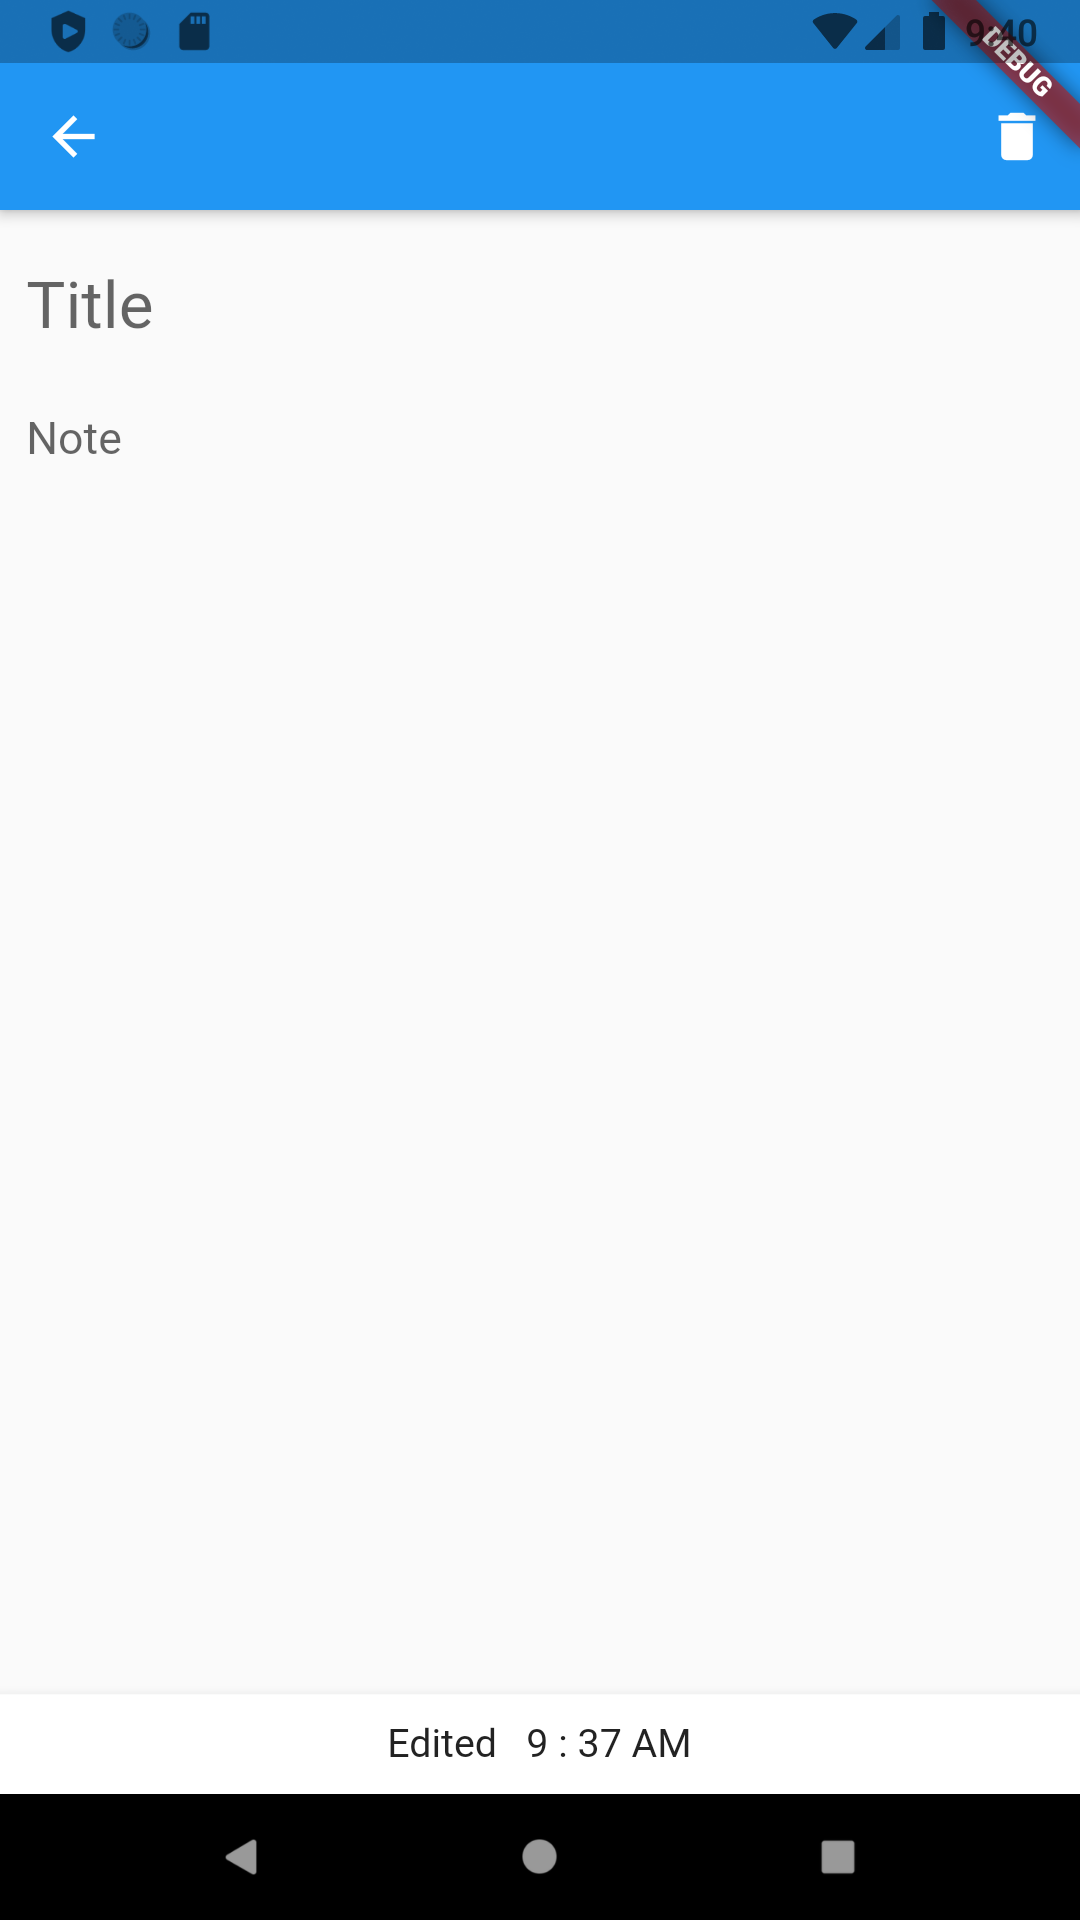
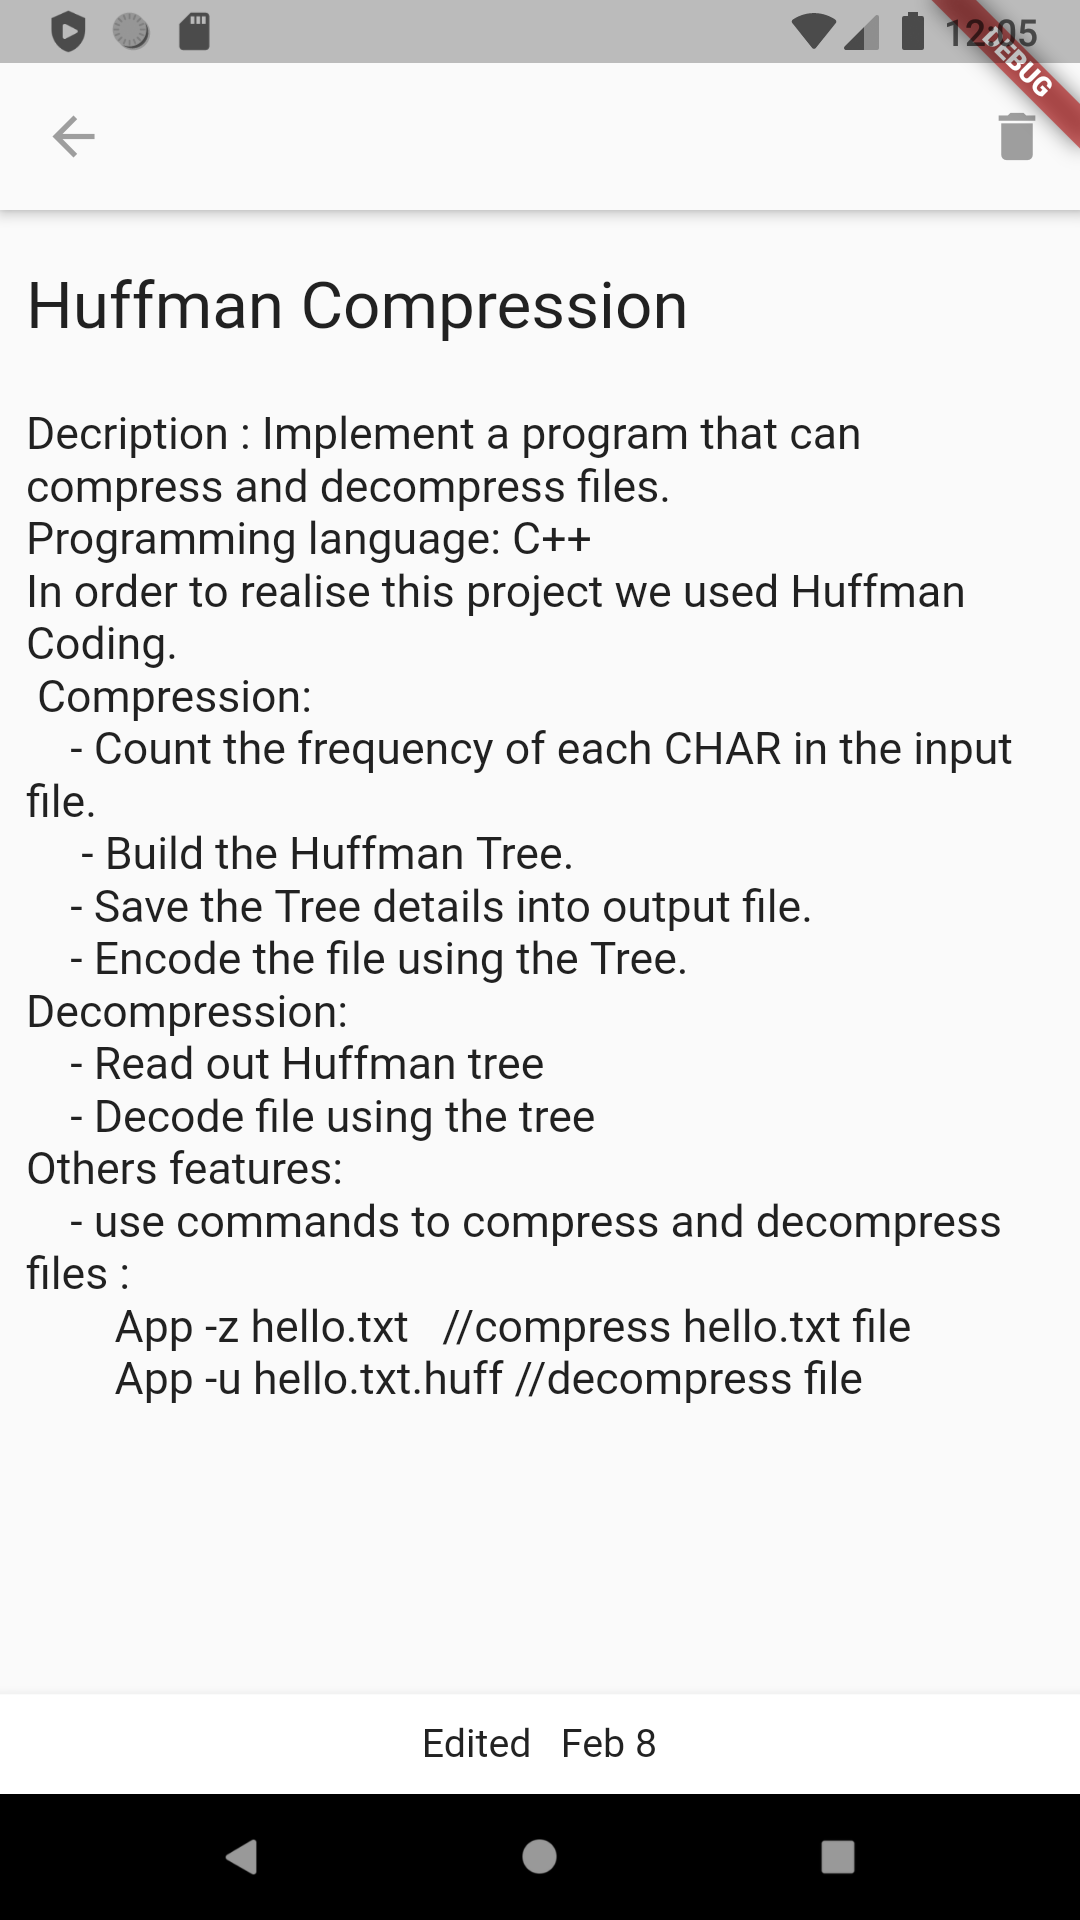
Design side bar and search page. also change edit page appbar color

diff --git a/lib/views/homepage.dart b/lib/views/homepage.dart
@@ -1,8 +1,10 @@
 import 'package:flutter/material.dart';
-import 'package:flutter/rendering.dart';
 import 'package:notepad/data/data.dart';
 import 'package:notepad/models/note.dart';
 import 'package:notepad/views/editpage.dart';
+import 'package:notepad/views/searchpage.dart';
+import 'package:notepad/widgets.dart/SideBar.dart';
+import 'package:notepad/widgets.dart/noteslist.dart';
 
 class HomePage extends StatefulWidget {
   final String title;
@@ -14,78 +16,10 @@ class HomePage extends StatefulWidget {
 }
 
 class _HomePageState extends State<HomePage> {
-  _buildListItem(Note note) {
-    return Dismissible(
-      key: Key(note.noteId),
-      direction: DismissDirection.endToStart,
-      onDismissed: (direction) {
-        //TODO: delete note from database
-      },
-      child: Container(
-        margin: EdgeInsets.all(10.0),
-        decoration: BoxDecoration(
-            border: Border.all(color: Colors.grey),
-            borderRadius: BorderRadius.circular(10.0)),
-        child: ListTile(
-          title: Padding(
-            padding: EdgeInsets.all(10.0),
-            child: Text(
-              note.title,
-              maxLines: 1,
-              style: TextStyle(
-                fontSize: 24.0,
-                fontWeight: FontWeight.bold,
-              ),
-              overflow: TextOverflow.ellipsis,
-            ),
-          ),
-          subtitle: Text(
-            note.text,
-            style: TextStyle(
-              fontSize: 16,
-            ),
-            maxLines: 11,
-            overflow: TextOverflow.ellipsis,
-          ),
-          onTap: () {
-            Navigator.push(
-              context,
-              MaterialPageRoute(
-                builder: (BuildContext context) => EditPage(
-                  note: note,
-                ),
-              ),
-            );
-          },
-          onLongPress: () {
-            //TODO: on long press show options(delete,..)
-          },
-        ),
-      ),
-    );
-  }
-
-  _buildList() {
-    return ListView.builder(
-      itemCount: notes.length,
-      itemBuilder: (context, index) {
-        return _buildListItem(notes[index]);
-      },
-    );
-  }
-
   @override
   Widget build(BuildContext context) {
     return Scaffold(
       appBar: AppBar(
-        leading: IconButton(
-          icon: Icon(
-            Icons.menu,
-          ),
-          onPressed: () {
-            //TODO: show menu
-          },
-        ),
         title: Text(
           widget.title,
         ),
@@ -93,12 +27,20 @@ class _HomePageState extends State<HomePage> {
           IconButton(
             icon: Icon(Icons.search),
             onPressed: () {
-              //TODO: show search bar
+              Navigator.push(
+                context,
+                MaterialPageRoute(
+                  builder: (BuildContext context) => SearchPage(),
+                ),
+              );
             },
           ),
         ],
       ),
-      body: _buildList(),
+      drawer: SideBar(),
+      body: NotesList(
+        notes: myNotes,
+      ),
       floatingActionButton: FloatingActionButton(
         child: Icon(Icons.add),
         onPressed: () {

diff --git a/lib/widgets.dart/noteslist.dart b/lib/widgets.dart/noteslist.dart
@@ -1,0 +1,75 @@
+import 'package:flutter/material.dart';
+import 'package:notepad/models/note.dart';
+import 'package:notepad/views/editpage.dart';
+
+class NotesList extends StatefulWidget {
+  final List<Note> notes;
+
+  const NotesList({Key key, this.notes}) : super(key: key);
+
+  @override
+  _NotesListState createState() => _NotesListState();
+}
+
+class _NotesListState extends State<NotesList> {
+  _buildListItem(Note note) {
+    return Dismissible(
+      key: Key(note.noteId),
+      direction: DismissDirection.endToStart,
+      onDismissed: (direction) {
+        //TODO: delete note from database
+      },
+      child: Container(
+        margin: EdgeInsets.all(10.0),
+        decoration: BoxDecoration(
+            border: Border.all(color: Colors.grey),
+            borderRadius: BorderRadius.circular(10.0)),
+        child: ListTile(
+          title: Padding(
+            padding: EdgeInsets.all(10.0),
+            child: Text(
+              note.title,
+              maxLines: 1,
+              style: TextStyle(
+                fontSize: 24.0,
+                fontWeight: FontWeight.bold,
+              ),
+              overflow: TextOverflow.ellipsis,
+            ),
+          ),
+          subtitle: Text(
+            note.text,
+            style: TextStyle(
+              fontSize: 16,
+            ),
+            maxLines: 11,
+            overflow: TextOverflow.ellipsis,
+          ),
+          onTap: () {
+            Navigator.push(
+              context,
+              MaterialPageRoute(
+                builder: (BuildContext context) => EditPage(
+                  note: note,
+                ),
+              ),
+            );
+          },
+          onLongPress: () {
+            //TODO: on long press show options(delete,..)
+          },
+        ),
+      ),
+    );
+  }
+
+  @override
+  Widget build(BuildContext context) {
+    return ListView.builder(
+      itemCount: widget.notes.length,
+      itemBuilder: (context, index) {
+        return _buildListItem(widget.notes[index]);
+      },
+    );
+  }
+}

diff --git a/lib/widgets.dart/sidebar.dart b/lib/widgets.dart/sidebar.dart
@@ -1,0 +1,67 @@
+import 'package:flutter/material.dart';
+import 'package:notepad/views/homepage.dart';
+
+class SideBar extends StatefulWidget {
+  bool _allnotes;
+  bool _favorites;
+
+  SideBar()
+      : _allnotes = true,
+        _favorites = false;
+
+  @override
+  _SideBarState createState() => _SideBarState();
+}
+
+class _SideBarState extends State<SideBar> {
+  @override
+  Widget build(BuildContext context) {
+    return Drawer(
+      child: ListView(
+        padding: EdgeInsets.zero,
+        children: [
+          DrawerHeader(
+            decoration: BoxDecoration(color: Colors.green),
+            child: Padding(
+              padding: const EdgeInsets.all(8.0),
+              child: Text(
+                "Notepad",
+                style: TextStyle(fontSize: 20),
+              ),
+            ),
+          ),
+          ListTile(
+            title: Text("All Notes"),
+            selected: widget._allnotes,
+            onTap: () {
+              widget._favorites = false;
+              widget._allnotes = true;
+              Navigator.pop(context);
+              Navigator.pushReplacement(
+                context,
+                MaterialPageRoute(
+                  builder: (BuildContext context) => HomePage(title: "Notepad"),
+                ),
+              );
+            },
+          ),
+          ListTile(
+            title: Text("Favorites"),
+            selected: widget._favorites,
+            onTap: () {
+              widget._favorites = true;
+              widget._allnotes = false;
+              Navigator.pop(context);
+              /*Navigator.pushReplacement(
+                context,
+                MaterialPageRoute(
+                  builder: (BuildContext context) => HomePage(title: "Notepad"),
+                ),
+              );*/
+            },
+          ),
+        ],
+      ),
+    );
+  }
+}

diff --git a/lib/views/searchpage.dart b/lib/views/searchpage.dart
@@ -1,0 +1,49 @@
+import 'package:flutter/material.dart';
+import 'package:notepad/data/data.dart';
+import 'package:notepad/models/note.dart';
+import 'package:notepad/widgets.dart/noteslist.dart';
+
+class SearchPage extends StatefulWidget {
+  @override
+  _SearchPageState createState() => _SearchPageState();
+}
+
+class _SearchPageState extends State<SearchPage> {
+  TextEditingController _controller;
+  List<Note> _notes = myNotes;
+
+  @override
+  void initState() {
+    super.initState();
+    _controller = TextEditingController();
+  }
+
+  @override
+  Widget build(BuildContext context) {
+    return Scaffold(
+      appBar: AppBar(
+        leading: IconButton(
+          icon: Icon(
+            Icons.arrow_back,
+            color: Colors.grey,
+          ),
+          onPressed: () {
+            Navigator.pop(context);
+          },
+        ),
+        backgroundColor: Theme.of(context).scaffoldBackgroundColor,
+        title: TextField(
+          controller: _controller,
+          style: TextStyle(fontSize: 18),
+          decoration: InputDecoration(
+            border: InputBorder.none,
+            hintText: "search your notes",
+          ),
+        ),
+      ),
+      body: NotesList(
+        notes: _notes,
+      ),
+    );
+  }
+}

diff --git a/lib/views/editpage.dart b/lib/views/editpage.dart
@@ -46,8 +46,12 @@ class _EditPageState extends State<EditPage> {
   Widget build(BuildContext context) {
     return Scaffold(
       appBar: AppBar(
+        backgroundColor: Theme.of(context).scaffoldBackgroundColor,
         leading: IconButton(
-          icon: Icon(Icons.arrow_back),
+          icon: Icon(
+            Icons.arrow_back,
+            color: Colors.grey,
+          ),
           onPressed: () {
             Navigator.pop(context);
             //TODO: save edited note back in the data base
@@ -55,7 +59,10 @@ class _EditPageState extends State<EditPage> {
         ),
         actions: [
           IconButton(
-            icon: Icon(Icons.delete),
+            icon: Icon(
+              Icons.delete,
+              color: Colors.grey,
+            ),
             onPressed: () {
               //TODO: delete current note from data base
             },

diff --git a/lib/models/note.dart b/lib/models/note.dart
@@ -4,7 +4,16 @@ class Note {
   final String text;
   final DateTime editDate;
   final DateTime alarm;
+  final bool favorite;
+  final bool sticky;
 
-  Note({this.noteId, this.title, this.text, this.alarm, DateTime editDate})
+  Note(
+      {this.favorite,
+      this.sticky,
+      this.noteId,
+      this.title,
+      this.text,
+      this.alarm,
+      DateTime editDate})
       : this.editDate = editDate ?? DateTime.now();
 }

diff --git a/lib/data/data.dart b/lib/data/data.dart
@@ -1,6 +1,6 @@
 import 'package:notepad/models/note.dart';
 
-List<Note> notes = [
+List<Note> myNotes = [
   Note(
     noteId: "1",
     title: "Huffman Compression",

diff --git a/README.md b/README.md
@@ -7,3 +7,11 @@ Home Page Design
 Edit Note page Design
 
 ![edit page](images/editpage.png)
+
+Sidebar Design
+
+![side bar](images/sidebar.png)
+
+Search Page Design
+
+![search page](images/search.png)
